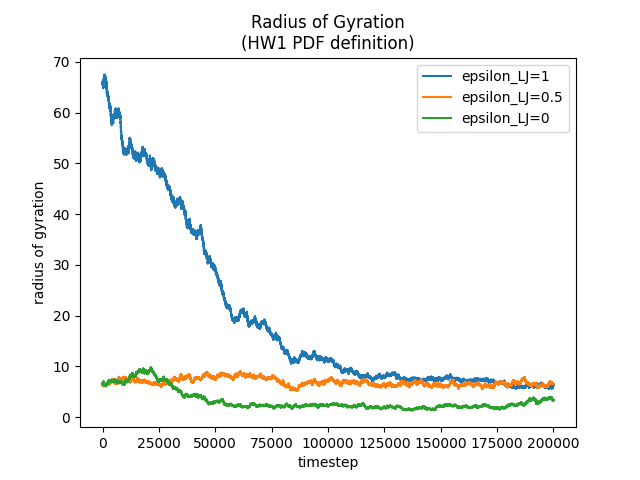
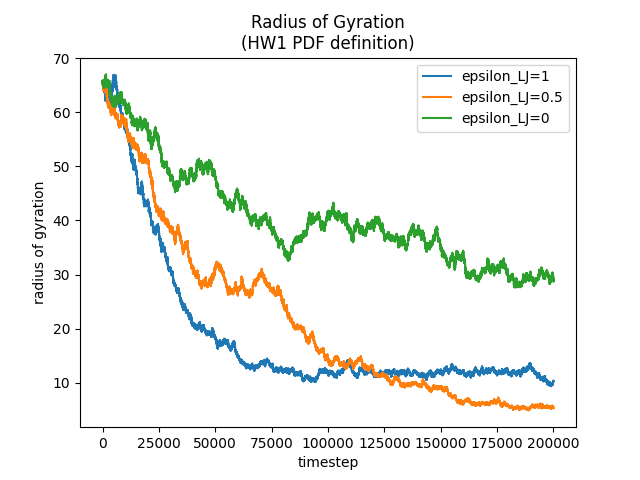
Fix major bug impacting part 2 results

diff --git a/HW1/polymer_MD_Python.py b/HW1/polymer_MD_Python.py
@@ -31,8 +31,8 @@ def Polymer_MD_Vary_N():
                 print("step =", step_i, "  N =", n, "  radius_of_gyration =", radius_gy[n_i, step_i])
                 visualize_particles(x, step_i, print_interval, "part-1-" + str(n_i))
 
-    np.save("part_1-radius_of_gyration.npy", radius_gy)
-    np.save("part_1-radius_of_gyration_rms.npy", radius_gy_rms)
+    # np.save("part_1-radius_of_gyration.npy", radius_gy)
+    # np.save("part_1-radius_of_gyration_rms.npy", radius_gy_rms)
 
 
 def Polymer_MD_Vary_LJ():
@@ -52,8 +52,8 @@ def Polymer_MD_Vary_LJ():
     radius_gy = np.zeros((len(epsilon_LJ), steps))
     radius_gy_rms = np.zeros((len(epsilon_LJ), steps))
 
-    x = initial_configuration(min_sep, N)
     for e_i, e in enumerate(epsilon_LJ):
+        x = initial_configuration(min_sep, N)
 
         for step_i in range(0, steps):
             x, pairs = steepest_descent(N, x, dt, cutoff_LJ, e, min_sep, spring_coeff, T)
@@ -188,24 +188,24 @@ def visualize_particles(x, step, save_interval, folder):
     plt.ylim([-10, 10])
     plt.xlim([-10, 10])
     plt.scatter(x[:, 0], x[:, 1])
-    frame_num = (step - 1) / save_interval + 1
+    frame_num = math.floor((step - 1) / save_interval + 1)
     plt.savefig(folder + "/" + f"{frame_num:06d}" + ".png", format="png")
     plt.clf()
 
 
 # Step 1: Modified "main" method for calculating part 1
-Polymer_MD_Vary_N()
+# Polymer_MD_Vary_N()
 
 # Step 2: Modified "main" method for calculating part 2
 Polymer_MD_Vary_LJ()
 
 # Step 3: Create graphs from the data calculated in parts 1 and 2
-plot_radius_of_gyration("part_1-radius_of_gyration.npy", "part_1-radius_of_gyration.png",
-                        "Radius of Gyration\n(HW1 PDF definition)", ["N=25", "N=20", "N=5"])
-
-plot_radius_of_gyration("part_1-radius_of_gyration_rms.npy", "part_1-radius_of_gyration_rms.png",
-                        "Radius of Gyration\n(Wikipedia definition)", ["N=25", "N=20", "N=5"])
-
+# plot_radius_of_gyration("part_1-radius_of_gyration.npy", "part_1-radius_of_gyration.png",
+#                         "Radius of Gyration\n(HW1 PDF definition)", ["N=25", "N=20", "N=5"])
+#
+# plot_radius_of_gyration("part_1-radius_of_gyration_rms.npy", "part_1-radius_of_gyration_rms.png",
+#                         "Radius of Gyration\n(Wikipedia definition)", ["N=25", "N=20", "N=5"])
+#
 plot_radius_of_gyration("part_2-radius_of_gyration.npy", "part_2-radius_of_gyration.png",
                         "Radius of Gyration\n(HW1 PDF definition)",
                         ["epsilon_LJ=1", "epsilon_LJ=0.5", "epsilon_LJ=0"])

diff --git a/HW1/PROTEIN_SIMULATION.md b/HW1/PROTEIN_SIMULATION.md
@@ -37,7 +37,9 @@ The major difference between the two graphs (using the two different radius of g
 ## (2) Investigating varying LJ potential strengths
 The second part of the first part of the homework is very similar to the first part of the first part, in that we are running a parameter sweep, and investigating the radius of gyration across the parameter sweep. The only thing that has changed since the first part is that we are no longer investigating differences in `N`, the chain length, and instead we are investigating differences in `epsilon_LJ`, the strength of the Lennard-Jones potential. Once again I decided to just use both functions for the radius of gyration simultaneously.
 
-Here, the HW1 PDF version and the Wikipedia version follow the same relationship as discussed before. As for why the versions of the simulation follow the trend of starting high if `epsilon_LJ = 1`, and low otherwise, I'm really not sure. I'm not even sure if this is supposed to be the behavior I should expect. But I don't have enough time to do any more investigating, these simulations can take quite some time, and I got distracted trying to have fun and make gif animations of these simulations.
+UPDATE 02/08: I found a bug in my code resulting in the initial conditions not getting set between each run during this part (2). The following paragraph has been changed after the due date of the assignment in order to reflect the proper findings of this section:
+ 
+Here, the HW1 PDF version and the Wikipedia version follow the same relationship as discussed before. Each of the 3 runs start with the same radius of gyration, which is to be expected because they have the same number of particles to start out with. And from there they follow the general trend of collapsing down to a smaller radius of gyration faster with the increase in Lennard Jones potential strength. Interestingly though, as we get into later and later on in the simulation, the `epsilon_LJ = 0.5` protein is able to collapse down smaller than the `epsilon_LJ = 1.0` protein. I guess that this is because while the increased `epsilon_LJ` gives more strength to the attraction, which makes the protein fold quicker, it also gives more strength to the repulsion aspect of the LJ forces, and this results in the protein not being able to fold up quite as compactly.
 
 ![Part 2 graph (HW1 PDF Version)](part_2-radius_of_gyration.png)
 ![Part 2 graph (Wikipedia Version)](part_2-radius_of_gyration_rms.png)
